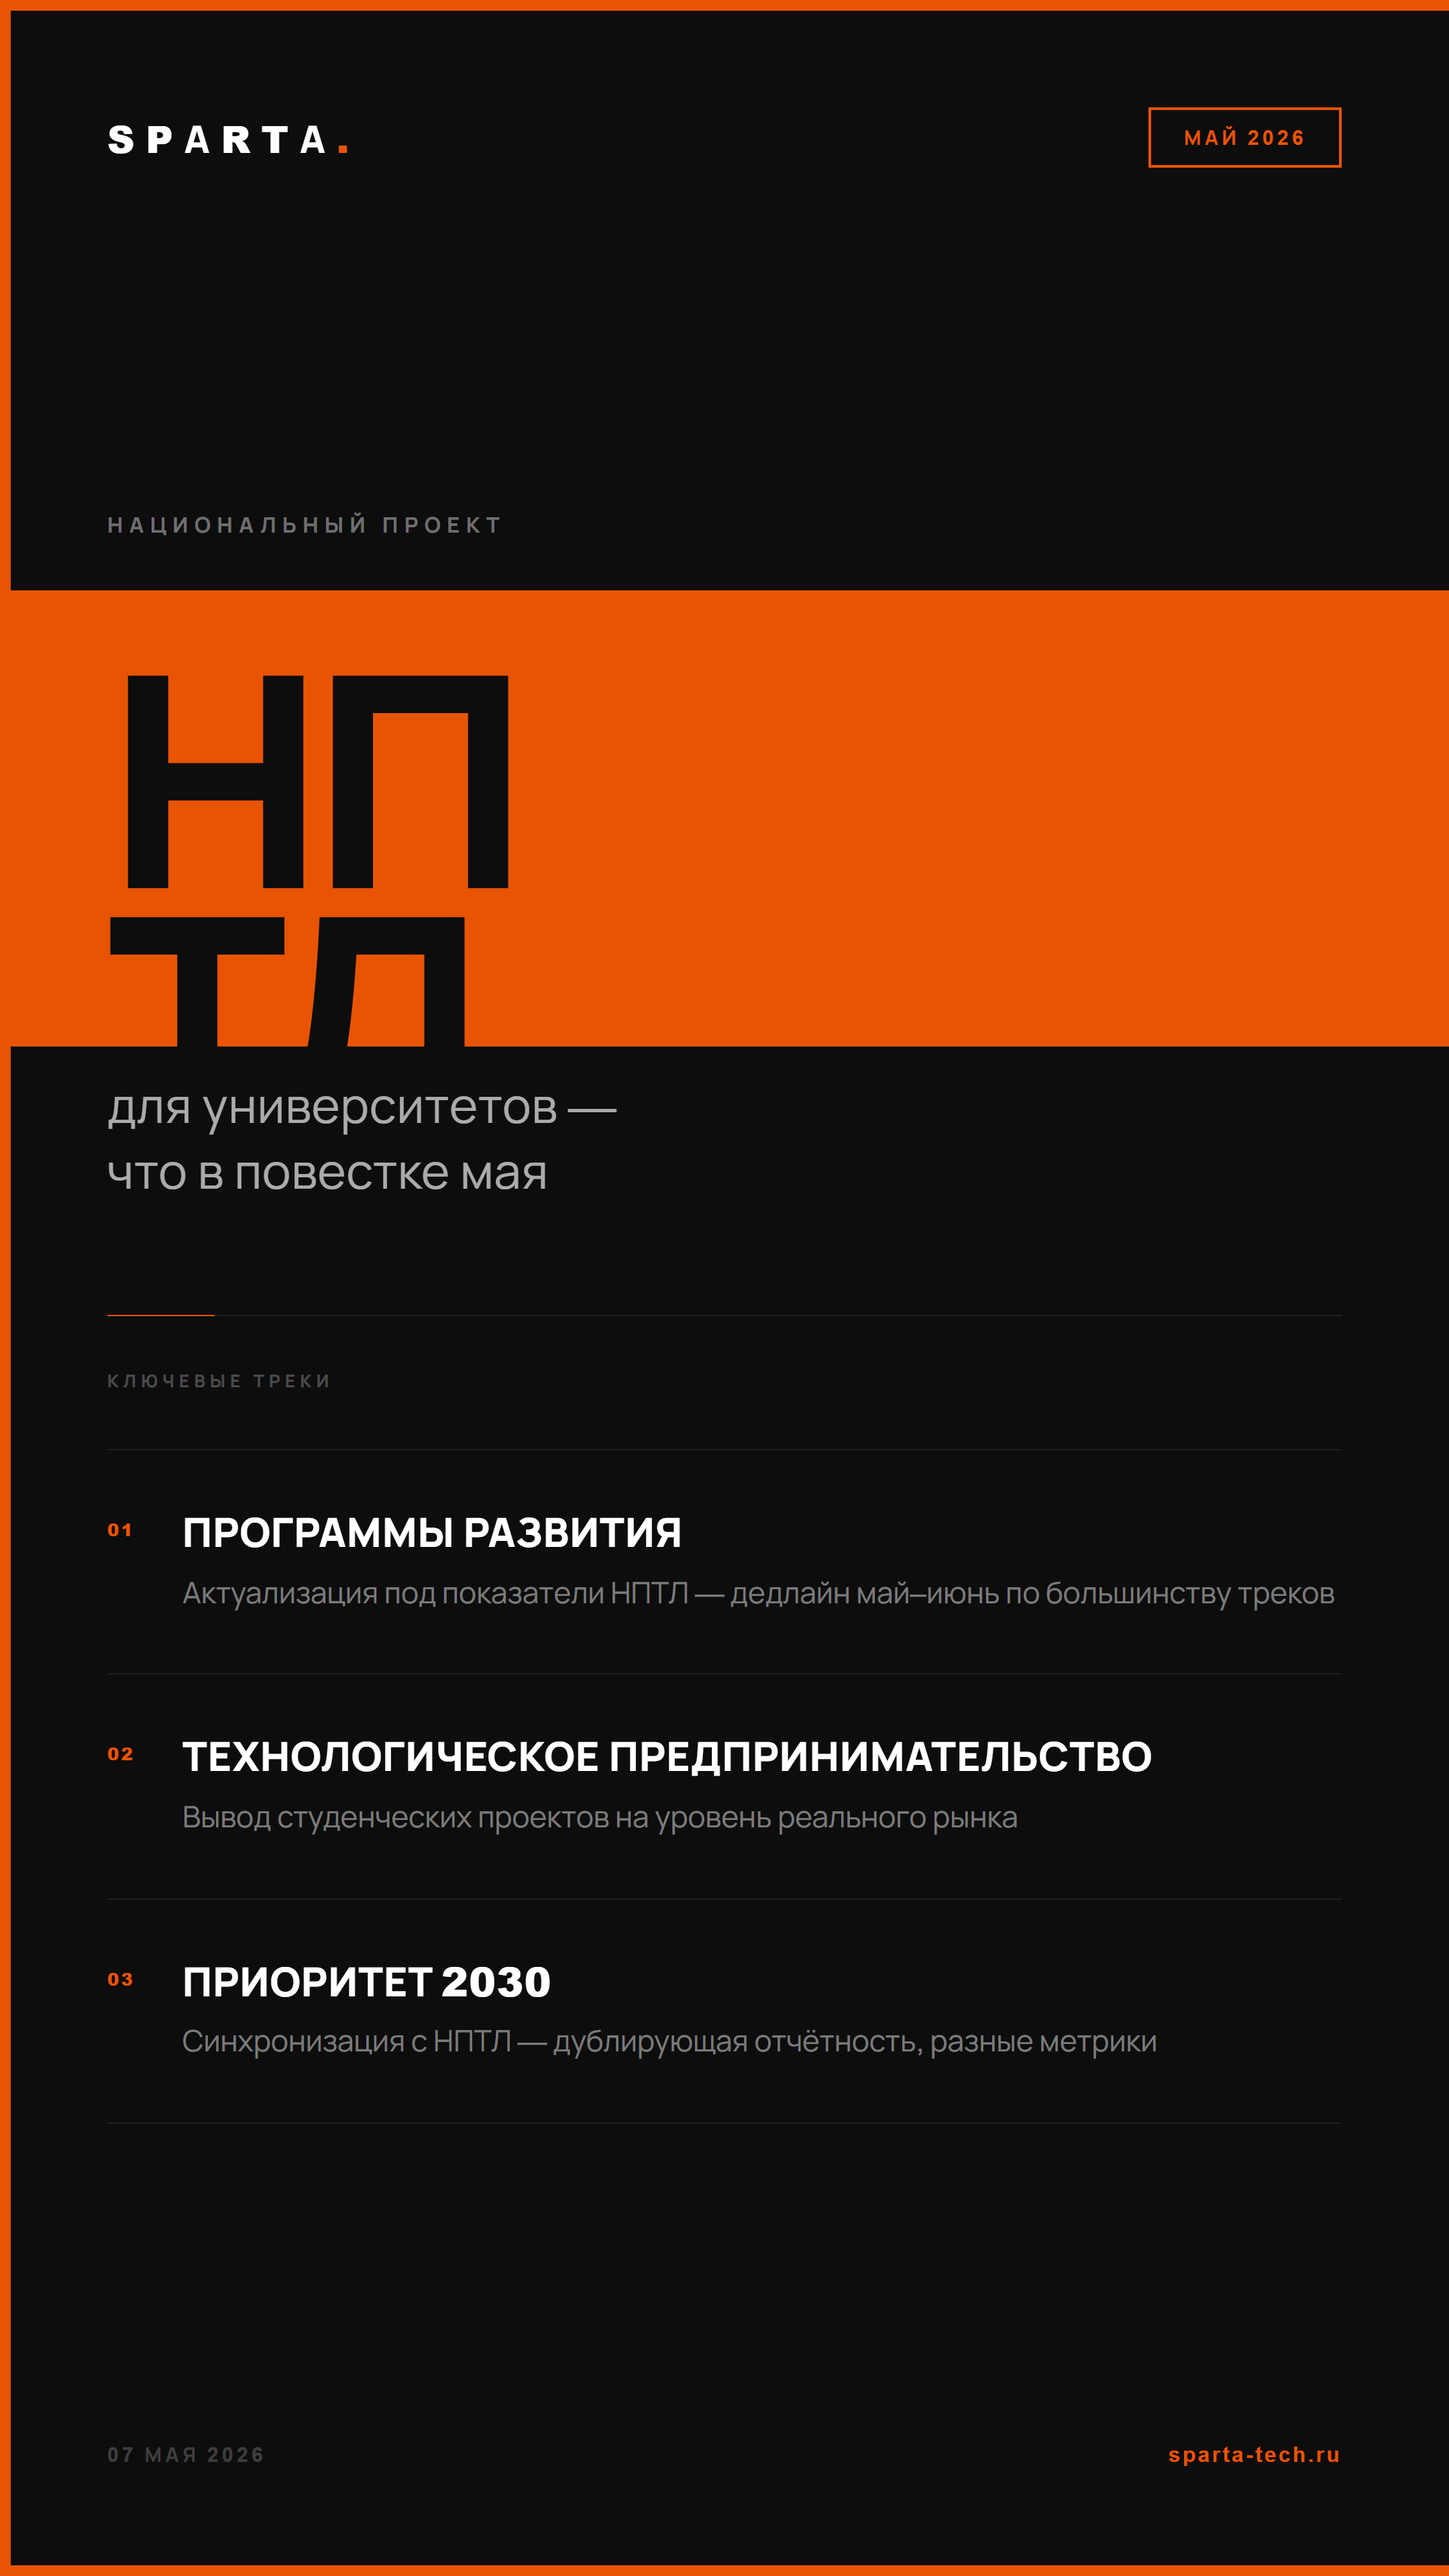
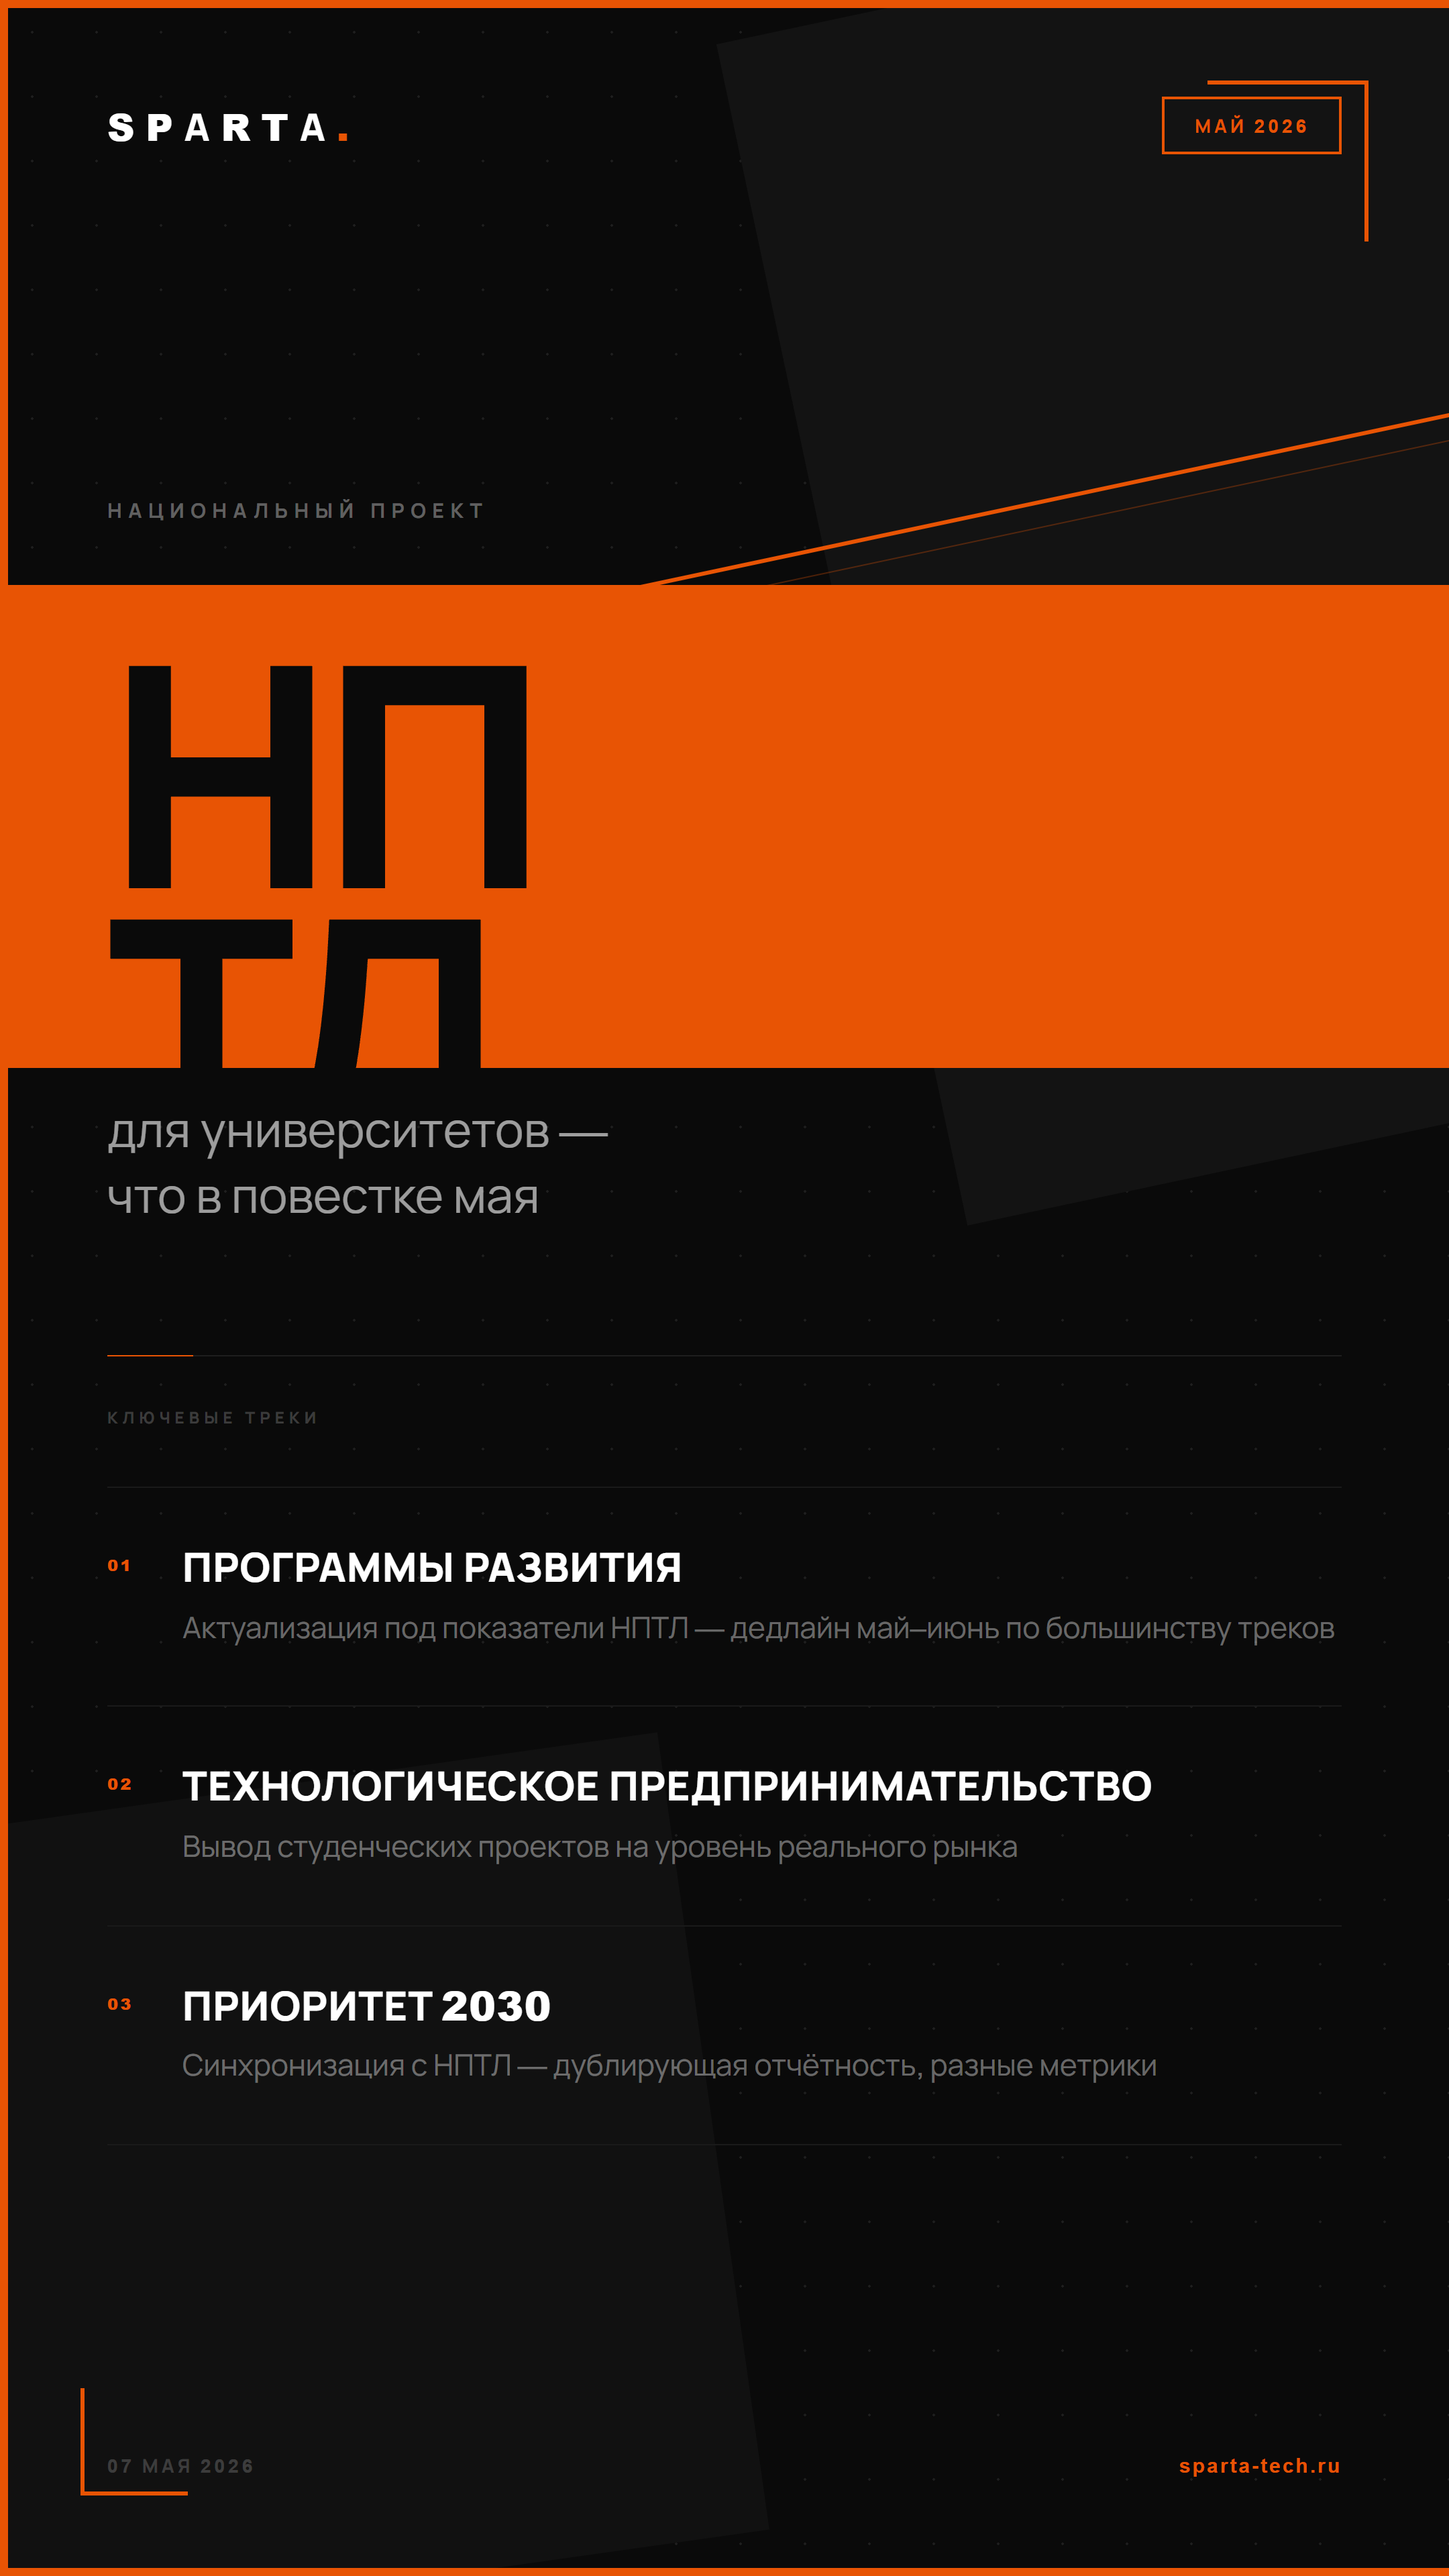
posts: фон изображения НПТЛ — геометрический flat — Sparta

diff --git a/projects/Sparta/posts/drafts/07_05_2026-1/image.html b/projects/Sparta/posts/drafts/07_05_2026-1/image.html
@@ -14,7 +14,7 @@
     width: 1080px;
     height: 1920px;
     overflow: hidden;
-    background: #0D0D0D;
+    background: #0A0A0A;
     font-family: 'Manrope', 'Arial', sans-serif;
   }
 
@@ -22,54 +22,126 @@
     position: relative;
     width: 1080px;
     height: 1920px;
-    background: #0D0D0D;
+    background: #0A0A0A;
     overflow: hidden;
   }
 
-  /* ─── Геометрические плоские блоки ─── */
+  /* ─── ФОНОВЫЙ СЛОЙ: крупные геометрические плоские блоки ─── */
 
-  /* Оранжевый прямоугольник — верхний акцент */
-  .block-top {
+  /* Диагональный тёмный блок — большой, угловой, правый верх */
+  .geo-block-1 {
     position: absolute;
-    top: 0; left: 0; right: 0;
-    height: 8px;
-    background: #E85404;
+    top: -100px; right: -80px;
+    width: 640px; height: 900px;
+    background: #131313;
+    transform: rotate(-12deg);
+    transform-origin: top right;
   }
 
-  /* Оранжевый вертикальный блок — левый край */
-  .block-left {
+  /* Второй блок — нижний левый */
+  .geo-block-2 {
     position: absolute;
-    top: 0; left: 0;
-    width: 8px; height: 100%;
+    bottom: -60px; left: -100px;
+    width: 680px; height: 600px;
+    background: #111111;
+    transform: rotate(-8deg);
+    transform-origin: bottom left;
+  }
+
+  /* Оранжевая геометрическая полоса — наискосок через весь слайд */
+  .geo-stripe-1 {
+    position: absolute;
+    top: 580px; left: -200px;
+    width: 1400px; height: 3px;
+    background: #E85404;
+    transform: rotate(-12deg);
+    transform-origin: left center;
+  }
+
+  /* Вторая оранжевая полоса — параллельная, смещена */
+  .geo-stripe-2 {
+    position: absolute;
+    top: 600px; left: -200px;
+    width: 1400px; height: 1px;
+    background: #E85404;
+    opacity: 0.30;
+    transform: rotate(-12deg);
+    transform-origin: left center;
+  }
+
+  /* Тонкая сетка точек (flat dot grid) */
+  .dot-grid {
+    position: absolute; inset: 0;
+    background-image: radial-gradient(circle, #1E1E1E 1px, transparent 1px);
+    background-size: 48px 48px;
+  }
+
+  /* Крупная оранжевая рамка — угловой акцент верх-право */
+  .corner-frame {
+    position: absolute;
+    top: 60px; right: 60px;
+    width: 120px; height: 120px;
+    border-top: 3px solid #E85404;
+    border-right: 3px solid #E85404;
+  }
+
+  /* Крупная оранжевая рамка — угловой акцент низ-лево */
+  .corner-frame-bl {
+    position: absolute;
+    bottom: 60px; left: 60px;
+    width: 80px; height: 80px;
+    border-bottom: 3px solid #E85404;
+    border-left: 3px solid #E85404;
+  }
+
+  /* Горизонтальный блок — чёрный плоский прямоугольник внутри */
+  .mid-block {
+    position: absolute;
+    top: 430px; left: 0; right: 0;
+    height: 6px;
     background: #E85404;
   }
 
   /* Большой оранжевый прямоугольник-фон заголовка */
   .title-bg {
     position: absolute;
-    top: 440px; left: 0;
-    width: 100%; height: 340px;
+    top: 436px; left: 0;
+    width: 100%; height: 360px;
     background: #E85404;
   }
 
-  /* Тонкая горизонтальная линия */
-  .line-h {
+  /* Вертикальная оранжевая полоса слева */
+  .block-left {
     position: absolute;
-    left: 80px; right: 80px;
-    height: 1px;
+    top: 0; left: 0;
+    width: 6px; height: 100%;
     background: #E85404;
   }
-  .line-h.dim {
-    background: rgba(255,255,255,0.08);
+
+  /* Горизонтальная полоса сверху */
+  .block-top {
+    position: absolute;
+    top: 0; left: 0; right: 0;
+    height: 6px;
+    background: #E85404;
+  }
+
+  /* Горизонтальная полоса снизу */
+  .block-bottom {
+    position: absolute;
+    bottom: 0; left: 0; right: 0;
+    height: 6px;
+    background: #E85404;
   }
 
   /* ─── Шапка ─── */
   .header {
     position: absolute;
-    top: 80px; left: 80px; right: 80px;
+    top: 72px; left: 80px; right: 80px;
     display: flex;
     align-items: center;
     justify-content: space-between;
+    z-index: 10;
   }
 
   .brand {
@@ -82,102 +154,104 @@
   .brand em { color: #E85404; font-style: normal; }
 
   .tag {
-    font-size: 15px;
+    font-size: 14px;
     font-weight: 700;
     letter-spacing: 0.18em;
     text-transform: uppercase;
     color: #E85404;
     border: 2px solid #E85404;
-    padding: 10px 24px;
+    padding: 10px 22px;
   }
 
   /* ─── Надпись над заголовком ─── */
   .eyebrow {
     position: absolute;
-    top: 380px; left: 80px;
-    font-size: 16px;
+    top: 370px; left: 80px;
+    font-size: 15px;
     font-weight: 700;
-    letter-spacing: 0.30em;
+    letter-spacing: 0.32em;
     text-transform: uppercase;
-    color: rgba(255,255,255,0.40);
+    color: rgba(255,255,255,0.35);
+    z-index: 10;
   }
 
   /* ─── Главный заголовок (на оранжевом фоне) ─── */
   .main-title {
     position: absolute;
-    top: 440px; left: 80px; right: 80px;
-    padding-top: 48px;
-    font-size: 220px;
+    top: 436px; left: 80px;
+    padding-top: 44px;
+    font-size: 230px;
     font-weight: 800;
-    color: #0D0D0D;
+    color: #0A0A0A;
     line-height: 0.82;
     letter-spacing: -0.04em;
+    z-index: 10;
   }
 
-  /* ─── Подзаголовок под оранжевым блоком ─── */
+  /* ─── Подзаголовок ─── */
   .main-sub {
     position: absolute;
-    top: 800px; left: 80px; right: 80px;
+    top: 818px; left: 80px; right: 80px;
     font-size: 36px;
     font-weight: 400;
-    color: rgba(255,255,255,0.65);
+    color: rgba(255,255,255,0.60);
     line-height: 1.35;
-    letter-spacing: 0.01em;
+    z-index: 10;
   }
 
   /* ─── Разделитель ─── */
   .divider {
     position: absolute;
-    top: 980px; left: 80px; right: 80px;
+    top: 1010px; left: 80px; right: 80px;
     height: 1px;
-    background: rgba(255,255,255,0.08);
+    background: #1E1E1E;
+    z-index: 10;
   }
   .divider::after {
     content: '';
     position: absolute;
     left: 0; top: 0;
-    width: 80px; height: 1px;
+    width: 64px; height: 1px;
     background: #E85404;
   }
 
   /* ─── Метка секции ─── */
   .section-label {
     position: absolute;
-    top: 1020px; left: 80px;
-    font-size: 13px;
+    top: 1048px; left: 80px;
+    font-size: 12px;
     font-weight: 700;
-    letter-spacing: 0.28em;
+    letter-spacing: 0.30em;
     text-transform: uppercase;
-    color: rgba(255,255,255,0.25);
+    color: rgba(255,255,255,0.20);
+    z-index: 10;
   }
 
   /* ─── Три пункта ─── */
   .agenda {
     position: absolute;
-    top: 1080px; left: 80px; right: 80px;
+    top: 1108px; left: 80px; right: 80px;
     display: flex;
     flex-direction: column;
-    gap: 0;
+    z-index: 10;
   }
 
   .agenda-item {
     display: flex;
-    align-items: stretch;
-    border-bottom: 1px solid rgba(255,255,255,0.07);
-    padding: 44px 0;
+    align-items: flex-start;
+    border-bottom: 1px solid #1A1A1A;
+    padding: 42px 0;
   }
-  .agenda-item:first-child {
-    border-top: 1px solid rgba(255,255,255,0.07);
-  }
+  .agenda-item:first-child { border-top: 1px solid #1A1A1A; }
 
   .agenda-num {
-    font-size: 13px;
+    font-size: 12px;
     font-weight: 800;
-    letter-spacing: 0.12em;
+    letter-spacing: 0.14em;
     color: #E85404;
     width: 56px;
     flex-shrink: 0;
-    padding-top: 6px;
+    padding-top: 7px;
   }
 
   .agenda-content { flex: 1; }
@@ -195,51 +269,53 @@
   .agenda-desc {
     font-size: 22px;
     font-weight: 400;
-    color: rgba(255,255,255,0.45);
+    color: rgba(255,255,255,0.38);
     line-height: 1.45;
   }
 
-  /* ─── Нижний блок ─── */
+  /* ─── Футер ─── */
   .footer {
     position: absolute;
-    bottom: 80px; left: 80px; right: 80px;
+    bottom: 72px; left: 80px; right: 80px;
     display: flex;
     align-items: center;
     justify-content: space-between;
+    z-index: 10;
   }
 
   .footer-date {
-    font-size: 15px;
+    font-size: 14px;
     font-weight: 700;
     letter-spacing: 0.18em;
-    color: rgba(255,255,255,0.20);
+    color: rgba(255,255,255,0.18);
     text-transform: uppercase;
   }
 
   .footer-site {
-    font-size: 16px;
+    font-size: 15px;
     font-weight: 700;
     letter-spacing: 0.10em;
     color: #E85404;
-  }
-
-  /* Маленький оранжевый прямоугольник — нижний акцент */
-  .block-bottom {
-    position: absolute;
-    bottom: 0; left: 0; right: 0;
-    height: 8px;
-    background: #E85404;
   }
 </style>
 </head>
 <body>
 <div class="slide">
 
-  <!-- Плоские геометрические блоки -->
-  <div class="block-top"></div>
+  <!-- Фоновый слой: плоские геометрические блоки -->
+  <div class="dot-grid"></div>
+  <div class="geo-block-1"></div>
+  <div class="geo-block-2"></div>
+  <div class="geo-stripe-1"></div>
+  <div class="geo-stripe-2"></div>
+
+  <!-- Структурные элементы -->
   <div class="block-left"></div>
+  <div class="block-top"></div>
   <div class="block-bottom"></div>
   <div class="title-bg"></div>
+  <div class="corner-frame"></div>
+  <div class="corner-frame-bl"></div>
 
   <!-- Шапка -->
   <div class="header">
